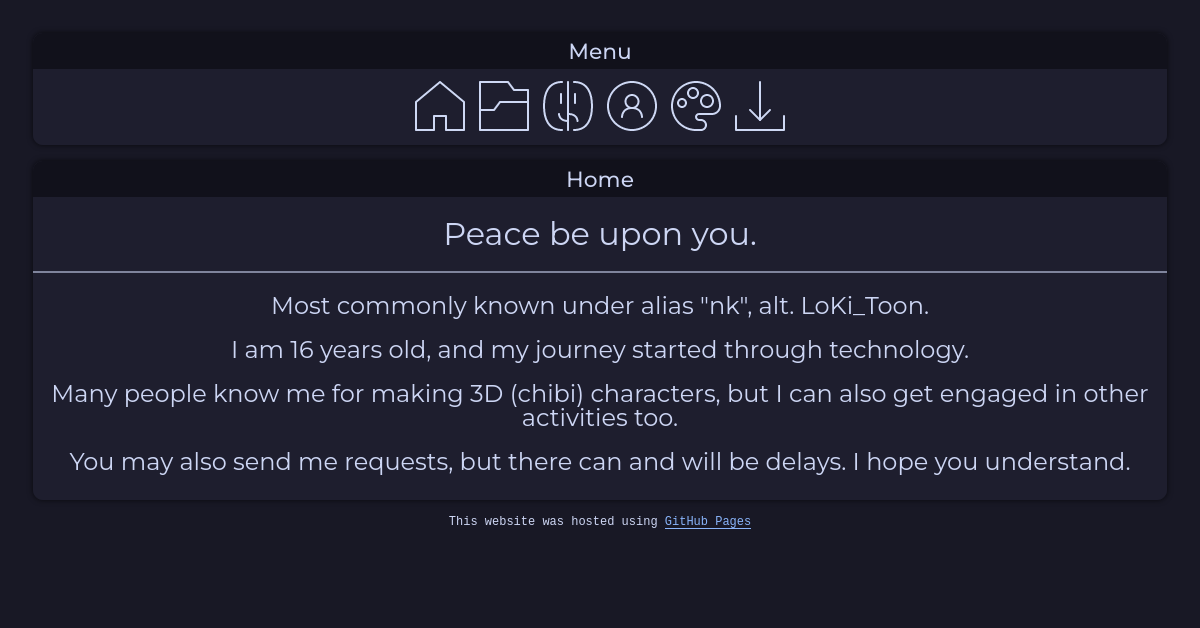
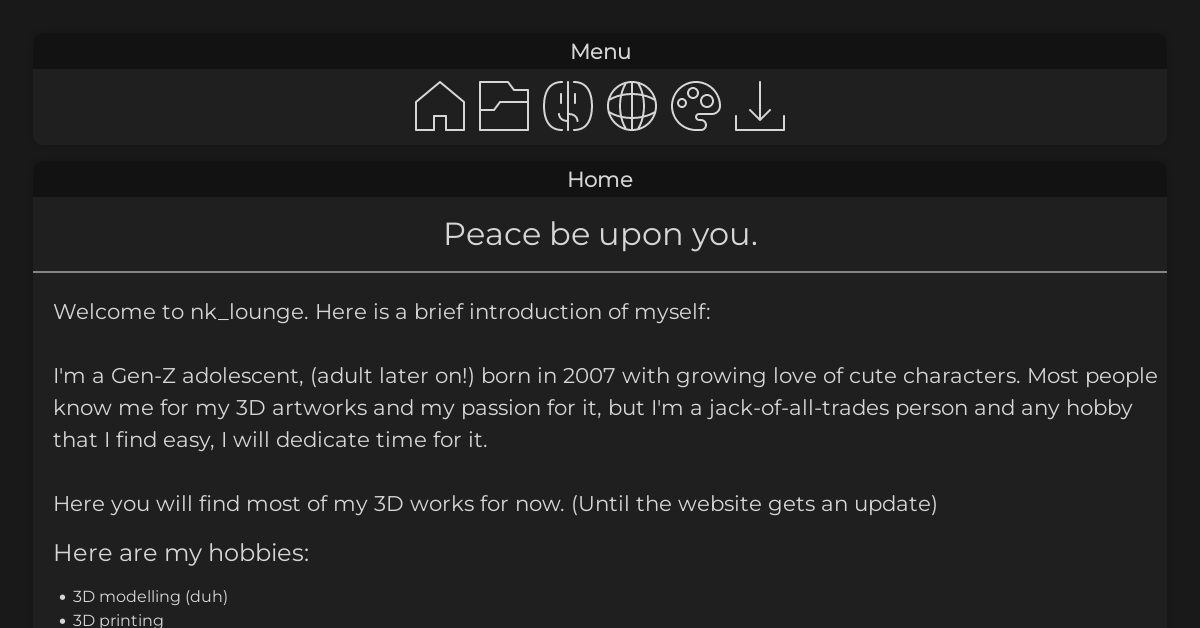
Re-write introduction, 404 page, update thumbnail

diff --git a/index.html b/index.html
@@ -15,10 +15,30 @@
     <div class="windowtitle">Home</div>
     <h1>Peace be upon you.</h1>
     <hr>
-    <h2>Most commonly known under alias "nk", alt. LoKi_Toon.</h2>
-    <h2>I am 17 years old, and my journey started through technology.</h2>
-    <h2>Many people know me for making 3D (chibi) characters, but I can also get engaged in other activities too.</h2>
-    <h2>You may also send me requests, but there can and will be delays. I hope you understand.</h2>
+    <p align="left" style="margin-left: 20px">
+      Welcome to nk_lounge. Here is a brief introduction of myself:
+      <br><br>
+      I'm a Gen-Z adolescent, (adult later on!) born in 2007 with growing love of cute characters. Most people know me for my 3D artworks and my passion for it, but I'm a jack-of-all-trades person and any hobby that I find easy, I will dedicate time for it.
+      <br><br>
+      Here you will find most of my 3D works for now. (Until the website gets an update)
+    </p>
+    <h2 align="left" style="margin-left: 20px">Here are my hobbies:</h2>
+    <ul>
+      <li>3D modelling (duh)</li>
+      <li>3D printing</li>
+      <li>Creating articulated characters</li>
+      <li>Vector art</li>
+      <li>Photography</li>
+      <li>Making "chiptune" music</li>
+      <li>Coding (i'm an amateur)</li>
+    </ul>
+    <h2 align="left" style="margin-left: 20px">And the (free!) software I use:</h2>
+    <ul>
+      <li>Blender (3D modelling and animation)</li>
+      <li>Inkscape (Vector graphics editor)</li>
+      <li>GIMP (Image editor)</li>
+      <li>Furnace-B (Chiptune music tracker)</li>
+    </ul>
   </div>
   <div class="footer">
     <div class="footertext">This website was hosted using <a href="https://pages.github.com/">GitHub Pages</a></div>

diff --git a/404.html b/404.html
@@ -11,8 +11,8 @@
     <a class="menubutton" href="index.html" title="Back"><img src="resources/Back.svg"></a>
   </div>
   <div class="main">
-    <div class="windowtitle">404 Redirect</div>
-    <h2>There's not much to see here.</h2>
+    <div class="windowtitle">Error</div>
+    <h2>Whoops, you've just stumbled upon a 404 error.</h2>
   </div>
   <div class="footer">
     <div class="footertext">This website was hosted using <a href="https://pages.github.com/">GitHub Pages</a></div>

diff --git a/main.css b/main.css
@@ -153,6 +153,10 @@ a {
   color: var(--link);
 }
 
+p {
+  font-size: 16pt;
+}
+
 .footer {
   text-align: center;
   font-size: 12px;
@@ -162,10 +166,8 @@ a {
   font-family: monospace;
 }
 
-li {
-  font-size: 18px;
-  margin: 15px;
-  line-height: 1;
+ul {
+  text-align: left;
 }
 
 .folder {
